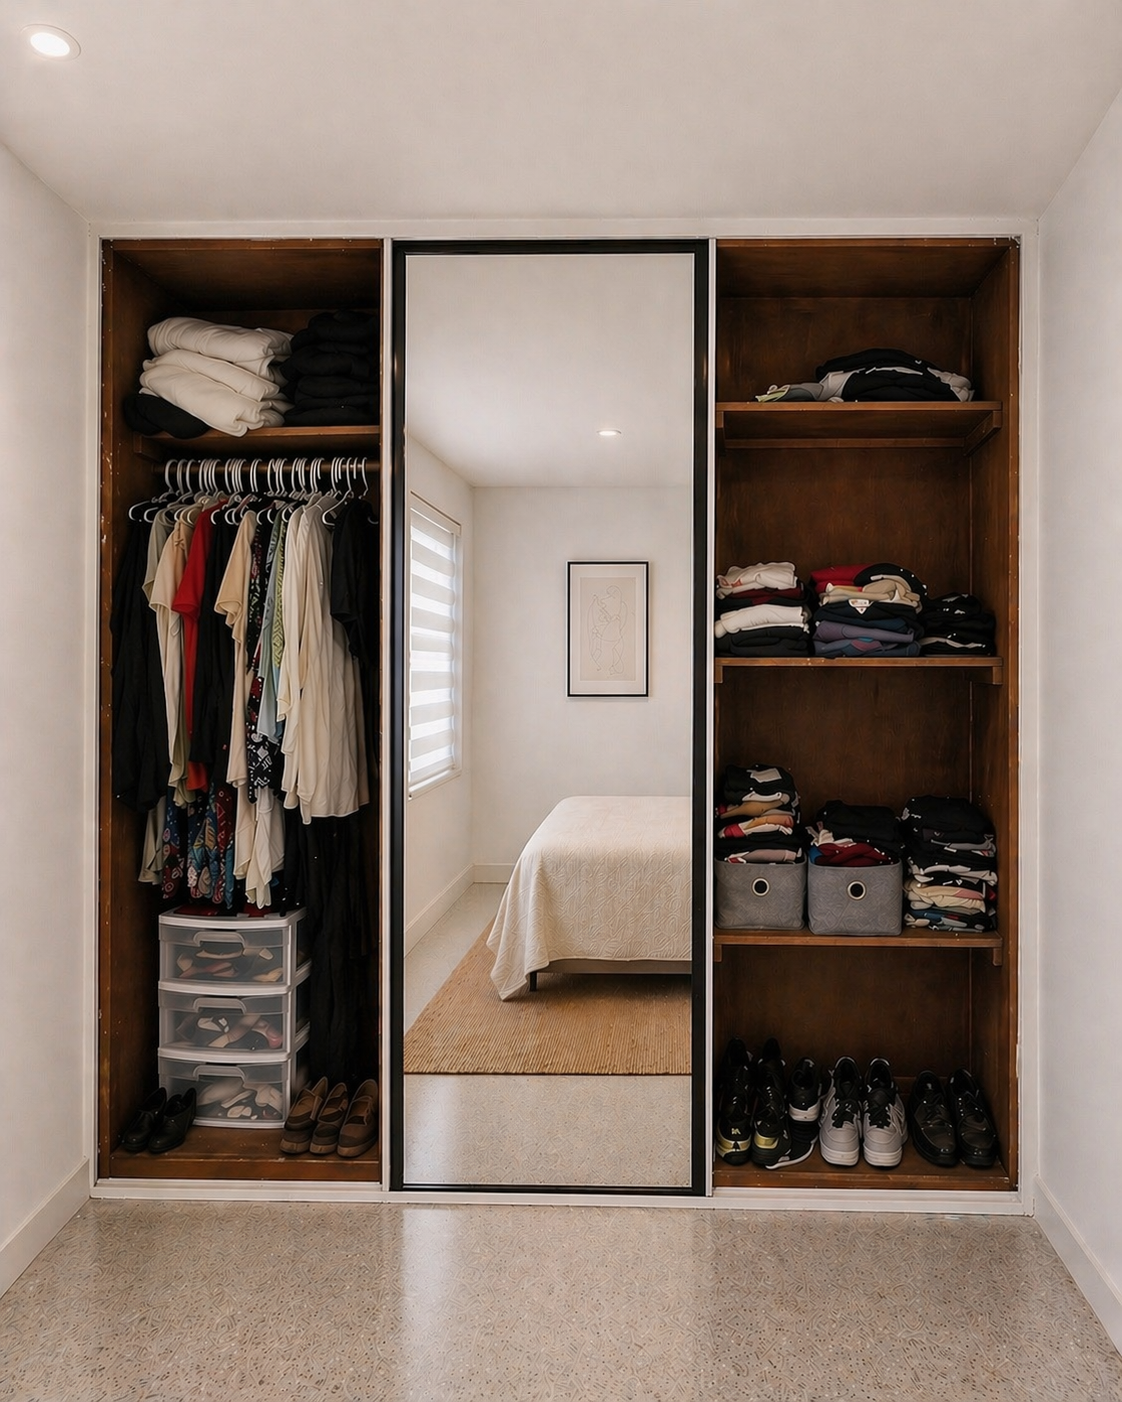
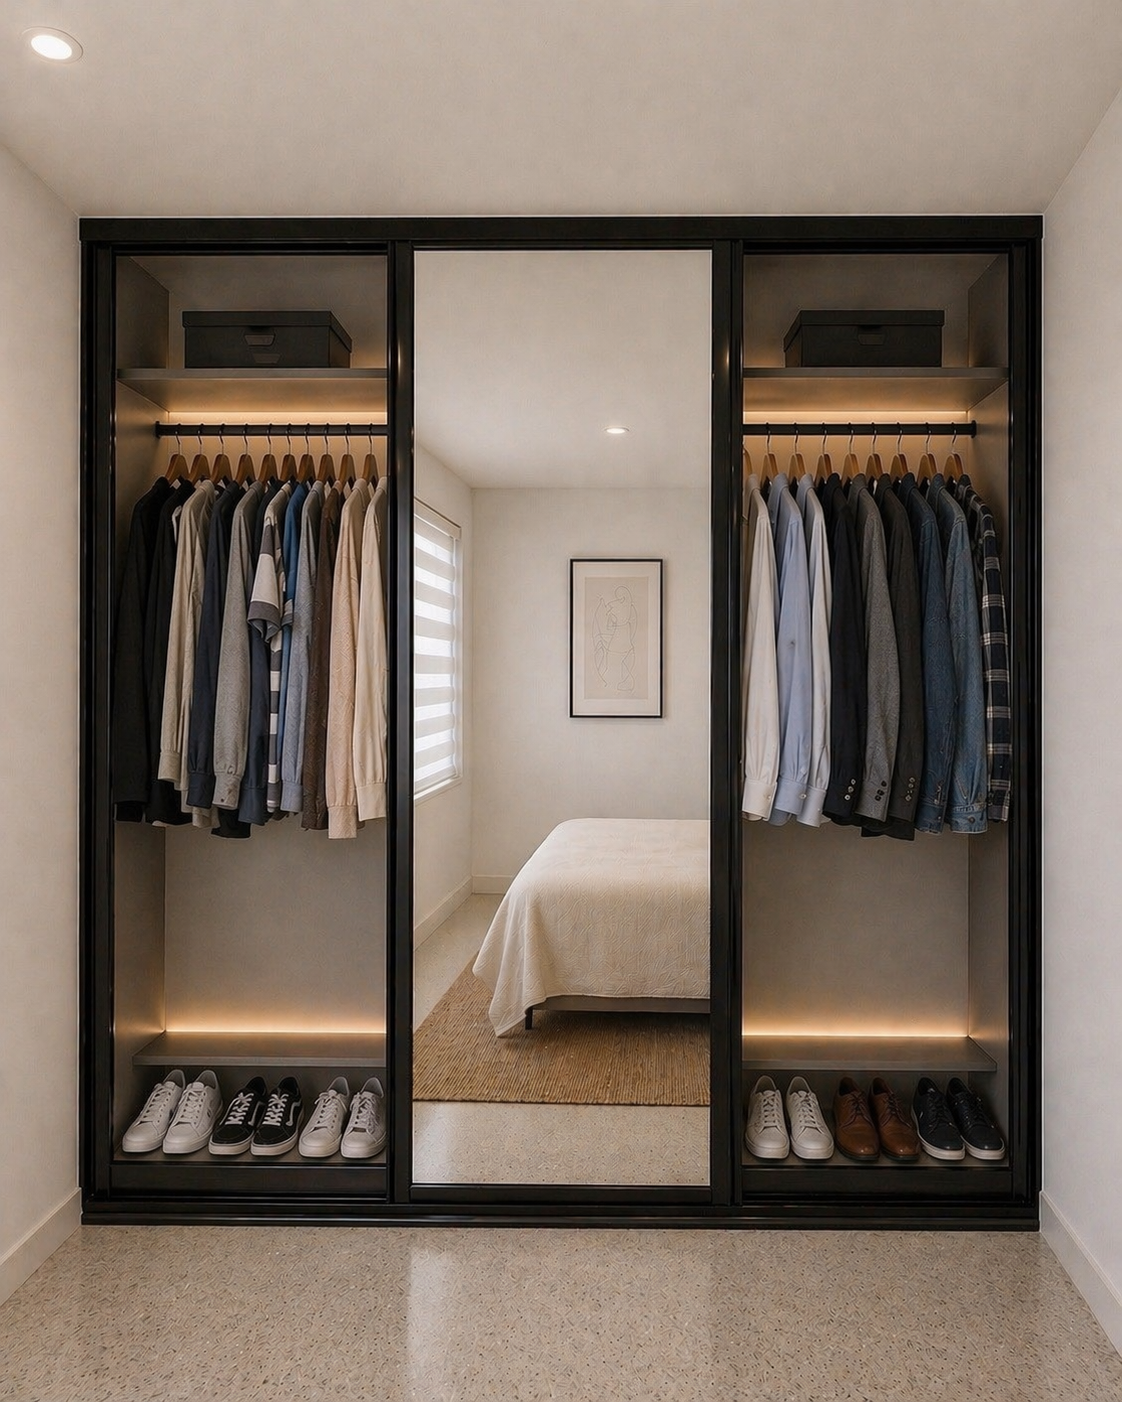
Name the closet photos after what's in them
antes-closet.jpg held the finished closet and despues-closet.jpg held
the old one. The markup compensated by crossing that pair, which worked
but left a trap: every future edit had to remember the files lie.

Swap the two files so the names are honest, uncross the markup, and
drop the comment that existed only to explain the lie.

diff --git a/index.html b/index.html
@@ -386,12 +386,12 @@
         </div>
 
         <div class="ba-pair">
-          <button type="button" class="ba-half" onclick="openGalleryModal('images/despues-closet.jpg','Closet — antes')">
-            <img src="images/despues-closet.jpg" alt="Closet antes de la remodelación" loading="lazy" />
+          <button type="button" class="ba-half" onclick="openGalleryModal('images/antes-closet.jpg','Closet — antes')">
+            <img src="images/antes-closet.jpg" alt="Closet antes de la remodelación" loading="lazy" />
             <span class="ba-tag">Antes</span>
           </button>
-          <button type="button" class="ba-half" onclick="openGalleryModal('images/antes-closet.jpg','Closet — después')">
-            <img src="images/antes-closet.jpg" alt="Closet moderno con espejo instalado por RI Aluminum" loading="lazy" />
+          <button type="button" class="ba-half" onclick="openGalleryModal('images/despues-closet.jpg','Closet — después')">
+            <img src="images/despues-closet.jpg" alt="Closet moderno con espejo instalado por RI Aluminum" loading="lazy" />
             <span class="ba-tag ba-tag-after">Después</span>
           </button>
         </div>
